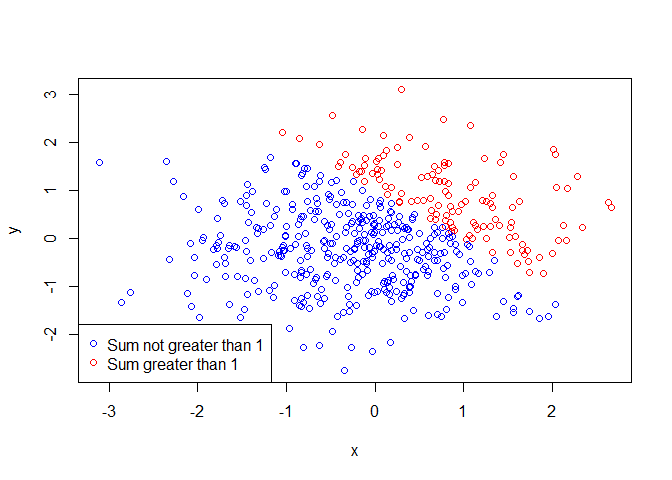
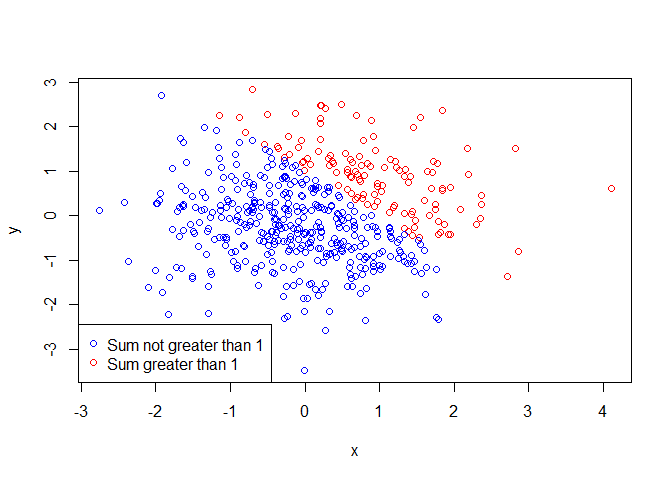
added some text, fixed my conversions

diff --git a/p8105_hw1_jsg2145.md b/p8105_hw1_jsg2145.md
@@ -37,42 +37,83 @@ Here’s a dataframe.
 df1 = tibble(
   samp = rnorm(8),
   samp_pos = samp > 0,
-  char_vec = c("This", "is", "a", "vector", "of", "length", "eight", "characters"),
+  char_vec = c("This", "is", "a", "character", "vector", "of", "length", "eight"),
   fact_vec = factor(c("fac1", "fac2", "fac3", "fac4", "fac5", "fac6", "fac7", "fac8")))
 ```
 
 Take the mean of each vector:
 
-I can take the mean of samp = -0.7153819
+I can take the mean of samp = -0.1257855
 
-I can take the mean of samp\_pos = 0, but it won’t tell me much
+I can take the mean of samp\_pos = 0.5, but it won’t tell me much
 
 The mean of a character vector doesn’t make sense, NA
 
 Neither does one for a factor, NA
 
 ``` r
-as.numeric(pull(df1, samp_pos))
-as.numeric(pull(df1, char_vec))
-as.numeric(pull(df1, fact_vec))
+pull(df1, samp_pos) %>% 
+  as.numeric()
+
+pull(df1, char_vec) %>% 
+  as.numeric()
+
+pull(df1, fact_vec) %>% 
+  as.numeric()
 ```
 
-My logical vector was converted to zeros and ones, whereas my character
-vector was converted to NAs “by coercion”.
+My logical vector was converted to zeros and ones,
 
-My factors were unassigned, so they were also NA.
+whereas my character vector was converted to NAs “by coercion”.
+
+My factors were assigned number values from 1 to 8.
 
 ``` r
-prod(as.numeric(pull(df1, samp_pos)), pull(df1, samp))
-prod(as.factor(pull(df1, samp_pos)), pull(df1, samp))
-prod(as.numeric(as.factor(pull(df1, samp_pos))), pull(df1, samp))
+## This returns a zero, not sure why
+
+df1n <- df1 %>% 
+  mutate(
+    samp_pos = as.numeric(samp_pos))
+prod(
+  pull(df1n, samp_pos),
+  pull(df1n, samp))
 ```
+
+    ## [1] 0
+
+``` r
+## This next one doesn't work because a factor can't be multiplied
+
+df1f <- df1 %>%
+  mutate(
+    samp_pos = as.factor(samp_pos))
+prod(
+  pull(df1f, samp_pos),
+  pull(df1f, samp))
+```
+
+``` r
+## The last one returns something more like what I expected, a random number
+
+df1fn <- df1 %>% 
+  mutate(
+    samp_pos = as.factor(samp_pos)) %>% 
+  mutate(
+    samp_pos = as.numeric(samp_pos))
+prod(
+  pull(df1fn, samp_pos), 
+  pull(df1fn, samp))
+```
+
+    ## [1] 1.035856
 
 # Problem 2
 
 Create a second dataframe.
 
 ``` r
+set.seed(1)
+
 df2 = tibble(
   x = rnorm(500),
   y = rnorm(500),
@@ -84,45 +125,42 @@ df2 = tibble(
 
 The size of this dataframe is 500 rows by 5 columns.
 
-The mean of x is -0.0316304, the median of x is -0.0125446, and
+The mean of x is 0.0226441, the median of x is -0.0367783, and
 
-the standard deviation of x is 1.0019866. The proportion of cases for
+the standard deviation of x is 1.0119283. The proportion of cases for
 which x + y \> 1
 
-is 124 / 500\`.
+is 126 / 500.
 
 ``` r
-df2_good <- df2 %>% 
-  mutate(
-    gr_th1_fac = factor(gr_th1_fac,
-                        labels = c("No", "Yes"))) %>% 
-  labs(fill = "Sum is greater than 1")
-with(df2_good, 
-     plot(x = pull(df2_good, x), y = pull(df2_good, y)))
+## This makes a plot using the logical vector to color points
+
+ggplot(df2,
+       aes(x, y, color = gr_th1)) +
+  geom_point()
 ```
 
+![](p8105_hw1_jsg2145_files/figure-gfm/ggplot%20logical-1.png)<!-- -->
+
 ``` r
-ggplot(data = df2,
+## This makes a plot using the factor vector to color points
+
+ggplot(df2,
        aes(x, y, color = gr_th1_fac)) +
   geom_point()
 ```
 
-![](p8105_hw1_jsg2145_files/figure-gfm/ggplot-1.png)<!-- -->
-
-labs(title = “Random Normal Samples”, legend(x = “topleft”, legend =
-ifelse( pull(df2, gr\_th1\_fac) == TRUE, “Sum not greater than 1”, “Sum
-greater than 1”)))
+![](p8105_hw1_jsg2145_files/figure-gfm/ggplot%20factor-1.png)<!-- -->
 
 ``` r
-with(df2, 
-     plot(x, y))
-with(
-  filter(df2, gr_th1 == TRUE),
-  points(x, y, col = 'red'))
-with(
-  filter(df2, gr_th1 == FALSE),
-  points(x, y, col = 'blue'))
-legend("bottomleft", pch= 1, col=c("blue","red"), legend=c("Sum not greater than 1","Sum greater than 1"))
+## This makes a plot using the numerical vector to color points
+
+ggplot(df2,
+       aes(x, y, color = gr_th1_num)) +
+  geom_point()
 ```
 
-![](p8105_hw1_jsg2145_files/figure-gfm/this%20plot%20works-1.png)<!-- -->
+![](p8105_hw1_jsg2145_files/figure-gfm/ggplot%20numerical-1.png)<!-- -->
+
+The numerical and factor vectors came out as bicolor, and the numerical
+plot was a continuous scale.
